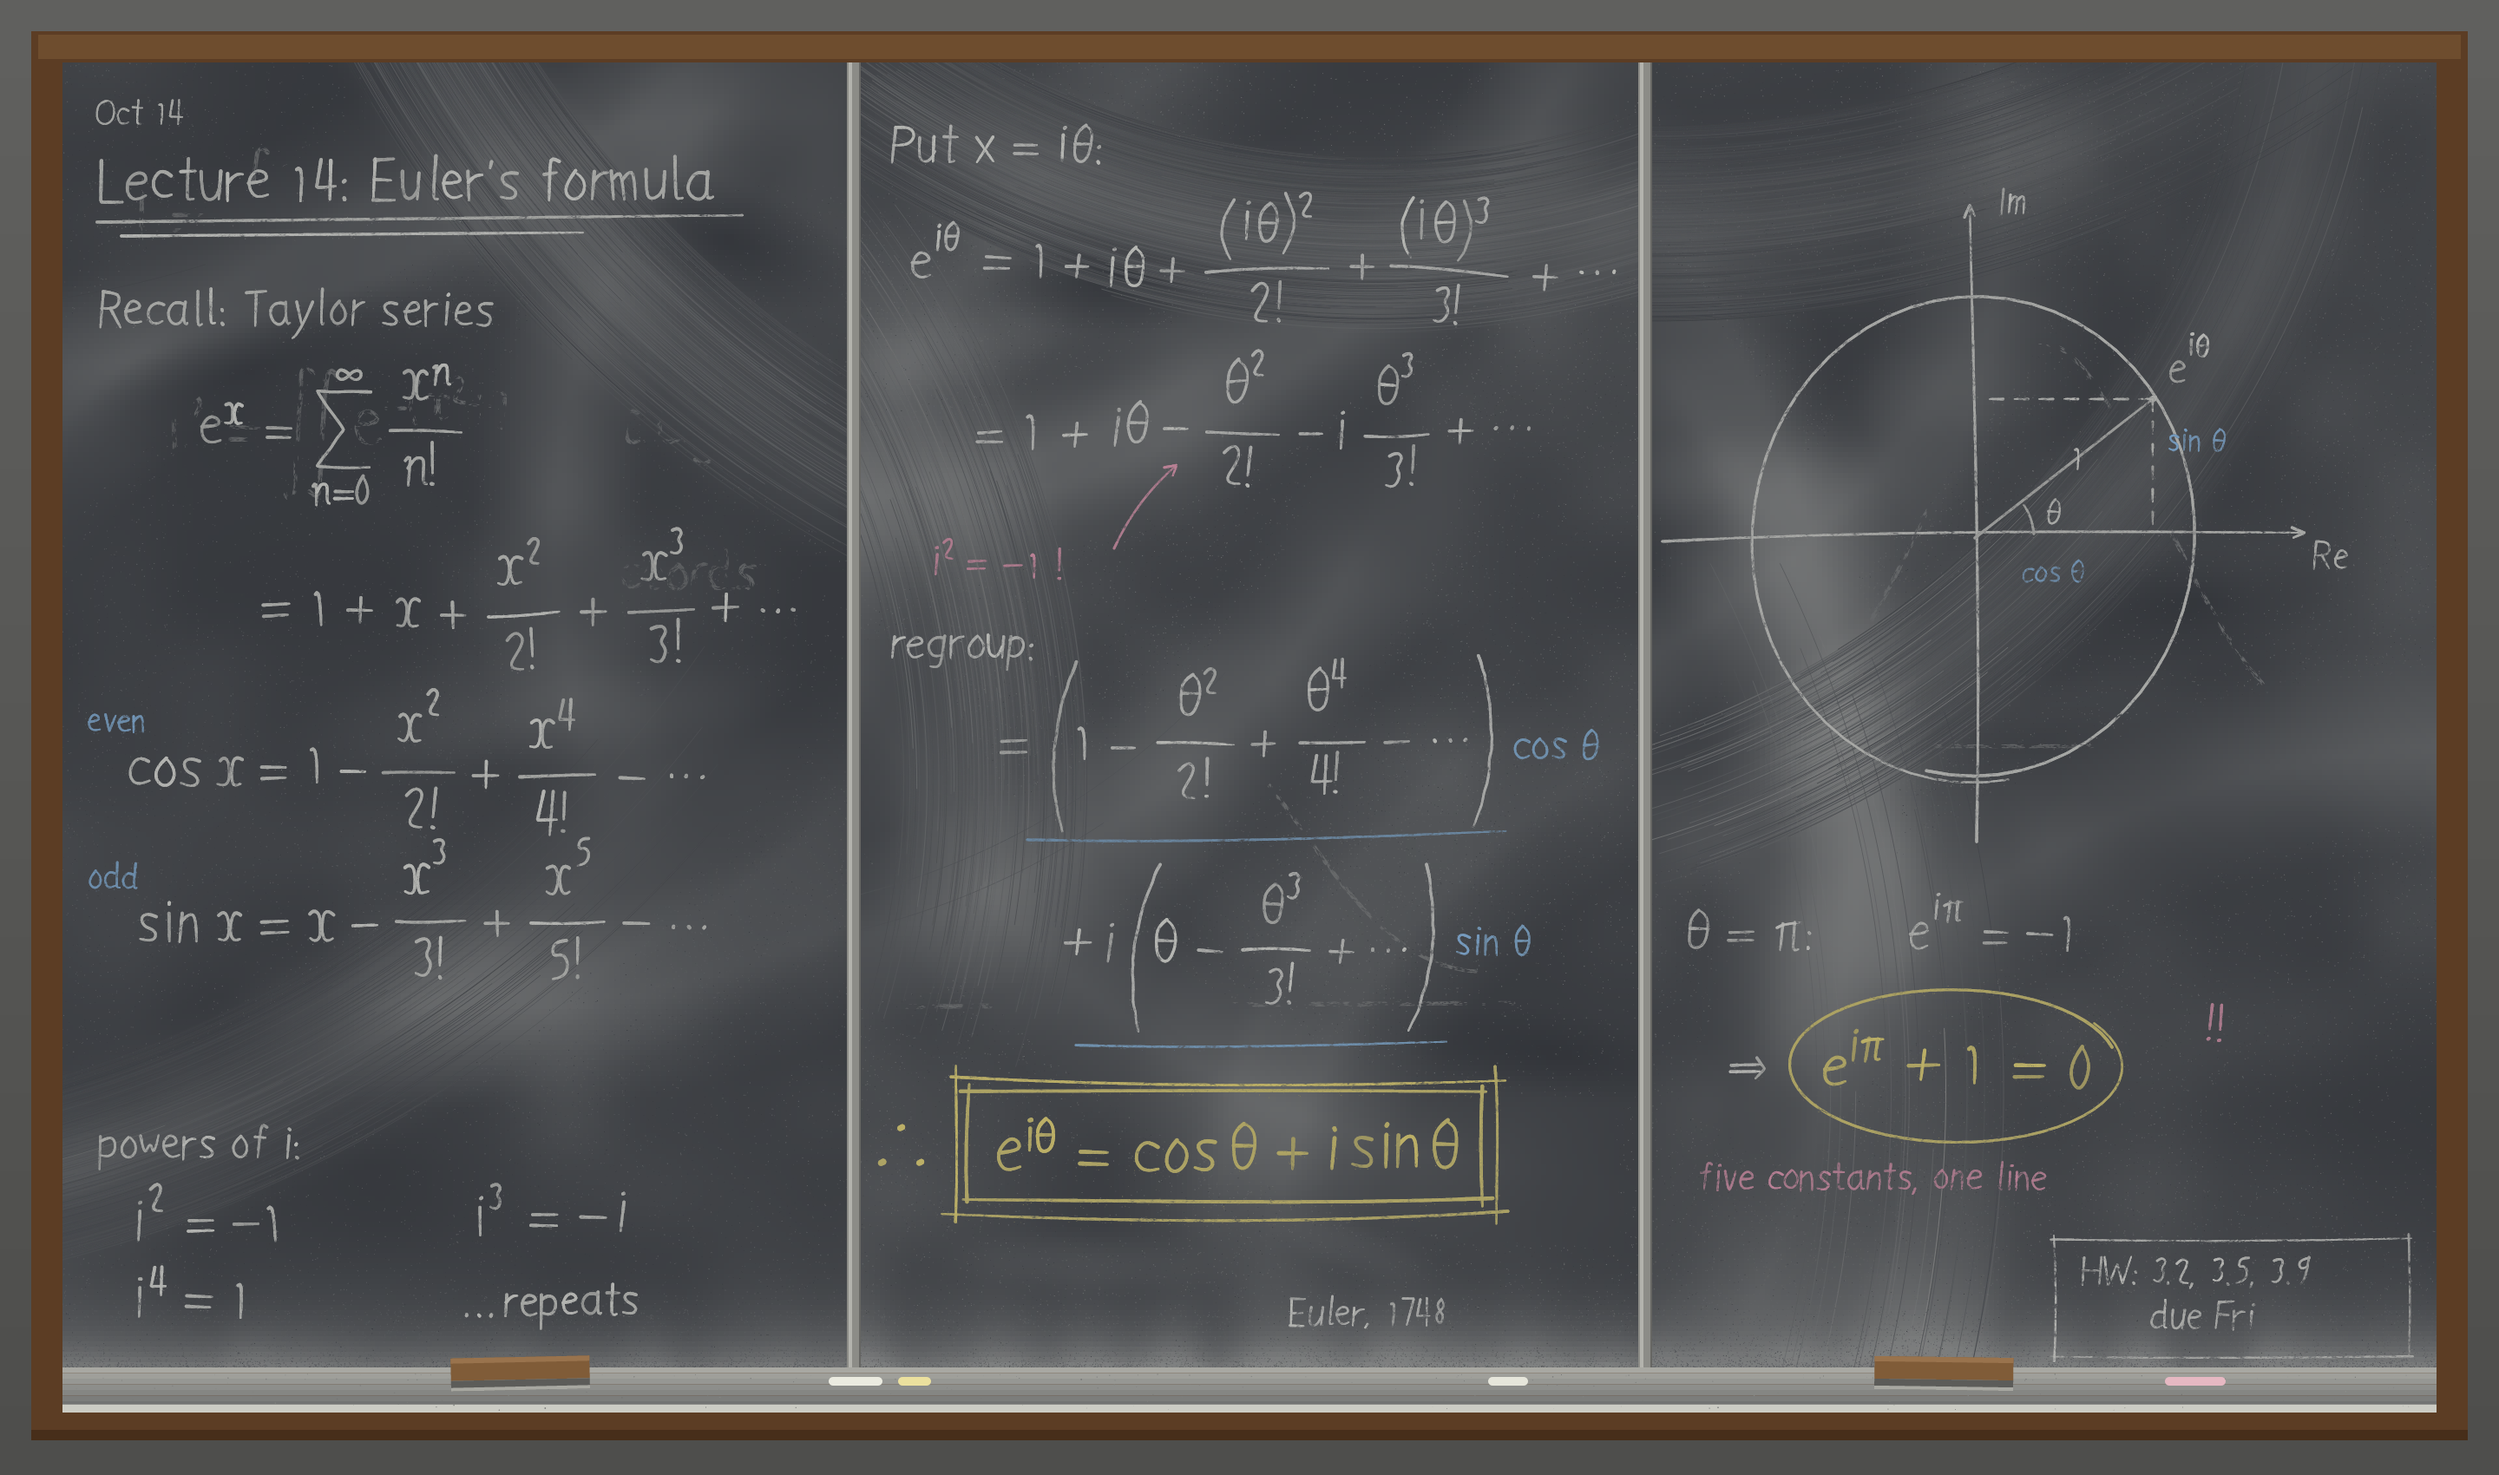
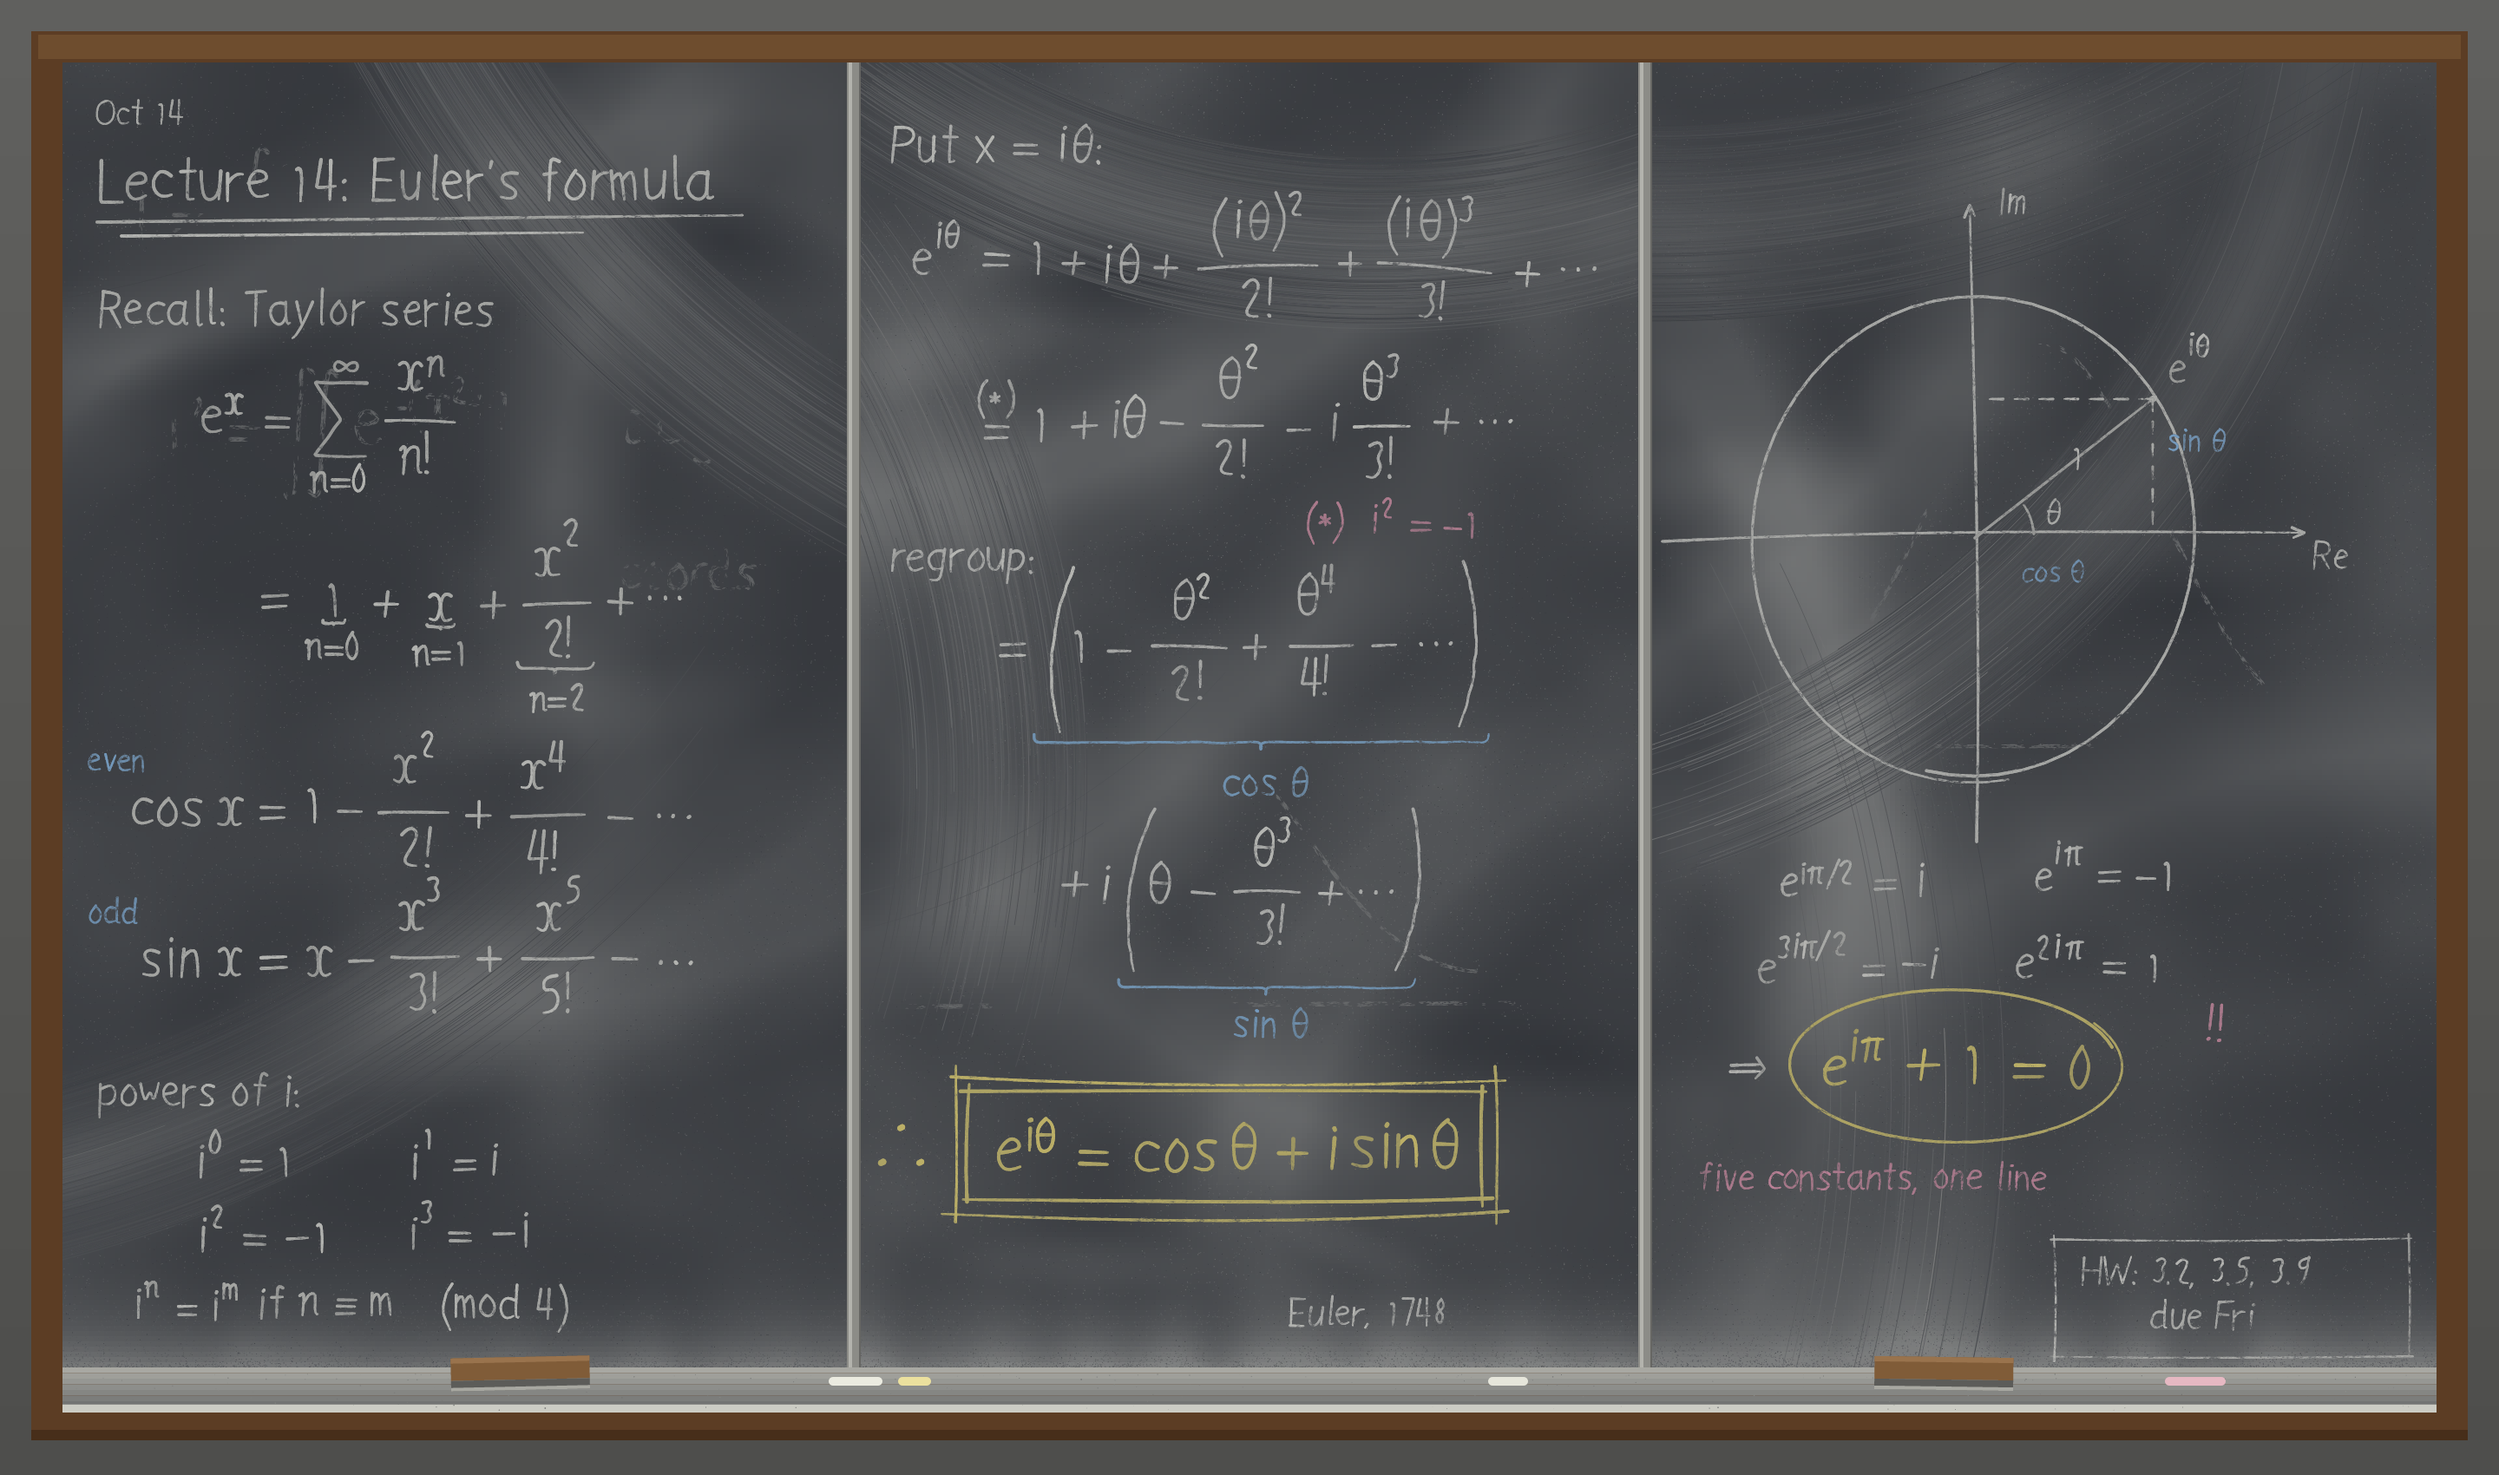
gallery: Lecture 14 final pass with mathkit's braces, starred step and columns (#532)
The chalkboard derivation now uses the finished mathkit structures where a
lecturer would: underbraces naming the Taylor terms, a starred overset on
the sign-flip step answered in pink, blue mkbrace annotations naming the
regrouped brackets cos and sin, the powers of i and the quarter turns in
wandering two-pair columns, and a \pmod rule. Board, ghosts, hand and
wear are unchanged; no library changed. Manifest text, the gallery README,
the compare composite and docs follow.

Claude-Session: https://claude.ai/code/session_01GTbCLDB6QC7UV1i7qukUEL

diff --git a/notes/532-chalkboard-final-pass.md b/notes/532-chalkboard-final-pass.md
@@ -1,0 +1,71 @@
+# #532: Lecture 14, the final pass (2026-10-15)
+
+`gallery/chalkboard_lecture.ps` (#238) is redrawn with the mathkit
+structures from #340 and #439. It now draws on drykit's headroom from #324
+and keeps the open 4 (#351) and the 7 fix (#298). The board, the ghost
+lecture, the frame, the tray and the hand's wear across the panels are
+unchanged. Only the formulas and their annotations changed. No library
+changed.
+
+## What the board says now
+
+- **Left.** The e^x series has a second line, `1 + x + x²/2! + ⋯`, with
+  `\underbrace`s under the first three terms labelled n=0, n=1 and n=2. That
+  is the step a lecturer takes from the sum to the expanded series. cos and
+  sin keep "even" and "odd". The powers of i become a two-pair `mkalign`
+  (`i^0 = 1, i^1 = i / i^2 = -1, i^3 = -i`) with `/ColumnWander 1.5`. Under
+  it is the rule `i^n = i^m if n ≡ m (mod 4)` (`\pmod`).
+- **Middle.** The second line of the substitution is
+  `&\overset{(*)}{=}`, and a pink "(*) i² = −1" beside the next heading
+  answers the star. That replaces the old pink note and arrow. The regrouped
+  brackets are each braced underneath in blue with `mkbrace`, labelled
+  cos θ and sin θ. That replaces the hand-placed `mkunderline`s, which #238
+  used as a stand-in for a brace. The ∴ and the double yellow box are as
+  before.
+- **Right.** The single "θ = π: e^{iπ} = −1" line becomes a two-pair table
+  of the quarter turns: `e^{iπ/2} = i, e^{iπ} = −1 / e^{3iπ/2} = −i,
+  e^{2iπ} = 1`, with `/ColumnWander 1.5`. It echoes the powers of i on the
+  left, and leads to the circled e^{iπ} + 1 = 0.
+
+## Design calls
+
+- **`\overset{(*)}{=}`, not `\overset{i^2=-1}{=}`.** The latter was tried
+  first. At chalk size the label's own = sits right over the relation's =,
+  and the pair reads as ≡ ("i² ≡ ⁻¹"). A star with a footnote is what
+  lecturers write, it reads at a glance, and the footnote can be pink. A
+  label can't take its own colour, because the line is inked once.
+- **`mkbrace` for cos/sin, not `\underbrace`.** An `\underbrace` label is
+  inked with its line, so it would be white. The braces were blue before,
+  and the colour helps the board read, so these are `mkbrace` annotations.
+  `\underbrace` is used on the left, where white labels are right.
+- **Placing an `mkbrace` inside an `mkalign` line.** The bracket's start is
+  the line record's `/Origin` x, plus the `mkmetrics` width of the prefix
+  (`&=`, `&\quad + i`) under that line's own seed (`/Seed` + 101 i), plus
+  a small gap. Its end is the record's `/BBox` right edge. The brace is
+  drawn left to right, so it points down.
+- **Not used: `\not` and `\substack`.** Nothing on an Euler's-formula board
+  calls for them. `\not=` draws a plain ≠, and a forced one would read as
+  decoration. The issue lists the tools available, and these two had no
+  natural place.
+- **The hand is unchanged.** The seeds, `/Irregular`, `/Slant` and
+  `/Touch` follow the old wear curve. No glyph was touched.
+- **The helpers are now `bind def`.** The render is byte-identical with
+  and without the binding.
+
+## Evidence
+
+- Renders: `pscat --page 1440x850 --dpi 144` (the 2x still). Before the
+  change, the base tree reproduced the committed PNG byte for byte.
+  `--lint` is clean.
+- Ghostscript (`-dNOSAFER`, 72 dpi) renders the piece without error. The
+  layout matches by eye. This is a correctness check only.
+- drykit: no `dkcatch` overflow and no refusal. #324 measured the lecture's
+  largest catch at under 5% of `dkbudget`. This pass adds a few short
+  strokes per panel, and the render stays well within DRYMEDIA 6.2's 30 s
+  board budget.
+- `lecture_compare_238.png` was rebuilt with
+  `prototypes/lecture_compare.py` from the new still. Its crop boxes still
+  frame the boxed result and the circle, because neither moved. Against
+  the committed composite, the base tree's rebuild differed only in the
+  header caption: #465 renamed the refs path in the script and never
+  regenerated the image. So this rebuild also refreshes that caption.

diff --git a/gallery/README.md b/gallery/README.md
@@ -120,7 +120,7 @@ Chalk, crayon and charcoal on slate and toothed paper.
 
 | Piece | File | How it is made |
 |---|---|---|
-| [Lecture 14](https://jeromebanks.github.io/postscript_interpreter/gallery-chalkboard-lecture.html) | [`chalkboard_lecture.ps`](chalkboard_lecture.ps) | Three sliding slate panels show the Taylor series recalled, then x = iθ substituted and regrouped into its real and imaginary parts, the result boxed twice in yellow chalk, and a freehand unit circle with Euler's identity circled. Side notes, arrows, underlines and the homework fill the corners. The formulas are `lib/mathkit.ps` layouts inked with `lib/drychalk.ps`'s `dcchalk`, on `dcboard` panels that still carry the last lecture (the Gaussian integral and a bell curve) as ghost writing under eraser swipes. The hand leans further and loosens panel by panel. |
+| [Lecture 14](https://jeromebanks.github.io/postscript_interpreter/gallery-chalkboard-lecture.html) | [`chalkboard_lecture.ps`](chalkboard_lecture.ps) | Three sliding slate panels carry one derivation. The Taylor series are recalled with braces under the first terms naming the n each comes from, and the powers of i set in two columns with a rule mod 4. Then x = iθ is substituted, the = where the signs flip starred and answered in pink, and the series regrouped, a blue brace under each bracket naming it cos θ or sin θ, before the result is boxed twice in yellow. A freehand unit circle, the quarter turns tabled in wandering columns, and Euler's identity circled finish it. The formulas are `lib/mathkit.ps` layouts (`\underbrace`, `\overset`, `\pmod`, aligned columns with `/ColumnWander`, and `mkbrace`) inked with `lib/drychalk.ps`'s `dcchalk`, on `dcboard` panels that still carry the last lecture (the Gaussian integral and a bell curve) as ghost writing under eraser swipes. The hand leans further and loosens panel by panel. |
 | [My Family and Our House](https://jeromebanks.github.io/postscript_interpreter/gallery-crayon-drawing.html) | [`crayon_drawing.ps`](crayon_drawing.ps) | Built the way a child builds one, from `lib/drycrayon.ps` on drykit's toothed surface. The sky is a band of blue scribble across the top and the grass a band along the bottom, both laid in side-by-side patches that run past their edges and leave white seams. A sun far too big, a red house with a brown roof, a path, an apple tree, flowers, birds, a smoking chimney and four stick figures about as tall as the house follow, and the name is set in strokeglyphs capitals with a backward S, each letter its own size and lean. Outlines go on last. The paths come from `dywobble`, `dyscribble`, `dyloop`, `dyrays`, `dygrass` and `dyfigure`, inked by `dycrayon` in the colours of a 16-crayon box. |
 | [Study after Berger, 1864](https://jeromebanks.github.io/postscript_interpreter/gallery-lincoln-charcoal.html) | [`lincoln_charcoal.ps`](lincoln_charcoal.ps) | `lib/etching.ps`'s `et-tonemap` reads the photograph into a 240 by 300 grid of darkness, and drycharcoal draws to it in a student's order on drykit's drawing paper: faint `dhsketch` construction lines (head oval, centre line, brow, eye, nose and mouth lines, shoulders), `dhsmudge` stump tone inside the dark masses, `dhhatch` to the photo's values (fine and short in the face, finer still at the features, looser vine strokes in the coat), compressed-charcoal and pencil accents at the brows, eyes, nose and mouth, and hard-eraser `dhlift` streaks in the hair and on the lapel. The coat and the ground fade out raggedly, as in a real study. |
 <!-- gallery:table:end -->

diff --git a/docs/dev/HANDOFF.md b/docs/dev/HANDOFF.md
@@ -763,7 +763,12 @@ renders eight examples in both and compares block-downsampled output).
    surface. A `/Ghost` proc that passes a procedure must `load` it. Never
    `def` an operator's name (`loop`, `lt`) in a piece: handscript and
    strokeglyphs aren't bound and will pick it up
-   (`notes/238-chalkboard-lecture.md`).
+   (`notes/238-chalkboard-lecture.md`). #532 gave it a final pass with
+   mathkit's structures (underbraces, a starred `\overset`, `\pmod`,
+   wandering columns, `mkbrace`): to place an `mkbrace` inside an `mkalign`
+   line, measure the prefix with `mkmetrics` under that line's own seed
+   (`/Seed` + 101 i) and add it to the record's `/Origin`
+   (`notes/532-chalkboard-final-pass.md`).
    #239 shipped `lib/drycrayon.ps` (`dy-`): `dycrayon` (a core and a rim
    `dkstroke` per subpath, one wax level each), `dypaper`, the crayon box
    (`dybox`, `dycolors`, `dycolor`) and six child motions with paintkit's

diff --git a/docs/guides/dry-media.md b/docs/guides/dry-media.md
@@ -238,7 +238,10 @@ the quadratic formula to Maxwell's equations, and a derivation in chalk.
 (`docs/dev/design/drymedia/mathkit_columns_braces.png`).
 The gallery piece `gallery/chalkboard_lecture.ps` fills a
 whole board with it: Euler's formula derived across three drychalk
-panels.
+panels, using the structures where a lecturer would. Underbraces name the
+Taylor terms, a starred `\overset{(*)}{=}` marks where the signs flip, and
+`mkbrace` names each regrouped bracket. The powers of i sit in wandering
+columns with a `\pmod` rule.
 
 ```postscript
 (lib/handscript.ps) run (lib/strokeglyphs.ps) run (lib/mathkit.ps) run
